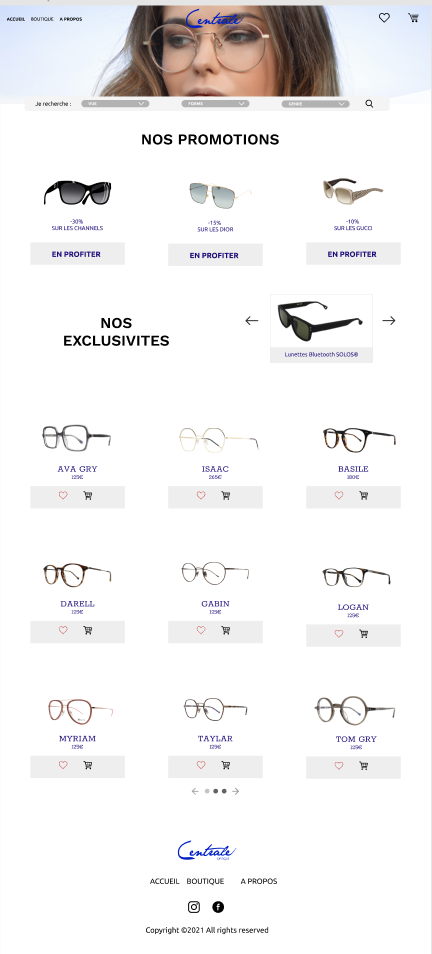
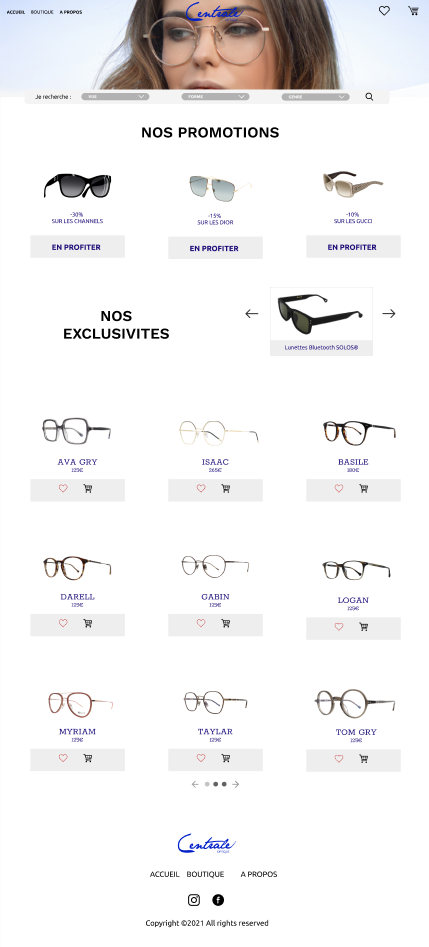
petits détails du sites et ajout de la page laFleur

diff --git a/index.html b/index.html
@@ -211,7 +211,15 @@
                     </div>
                 </div>
             </div>
-            <div class="laFleur"></div>
+            <div class="laFleur">
+                <div class="lafleurimg">
+                    <img src="img/Projets/laFleur/lafleur1.png" alt="">
+                    <img src="img/Projets/laFleur/lafleur2.png" alt="">
+                    <img src="img/Projets/laFleur/lafleur3.png" alt="">
+                    <img src="img/Projets/laFleur/lafleur4.png" alt="">
+                    <img src="img/Projets/laFleur/lafleurCrud.png" alt="">
+                </div>
+            </div>
 
 
         </div>
@@ -319,6 +327,12 @@
                             <div class="timeline-content">
                                 <h3 class="date">septembre 2020 à aujourd'hui</h3>
                                 <h1>BTS SIO OPTION SLAM</h1>
+                            </div>
+                        </li>
+                        <li>
+                            <div class="timeline-content">
+                                <h3 class="date">septembre 2022 à juin 2023</h3>
+                                <h1>BACHELOR CSI</h1>
                             </div>
                         </li>
                     </ul>

diff --git a/css/frameEcranStage.css b/css/frameEcranStage.css
@@ -48,6 +48,7 @@
 }
 .volet h1{
     font-size: 2em;
+    text-align: center;
 }
 .card-stage:hover>.volet{
     top:-45vh;
@@ -125,7 +126,7 @@
 }
 .maquette-centrale{
     margin: auto;
-    width: 95vw;
+    width: 90vw;
 }
 .container-centrale{
     height: 200px;
@@ -222,14 +223,22 @@
         display: flex;
         flex-flow: wrap;
         margin: auto;
-        width: 95vw;
-        justify-content: center;
-    }y
-    .maquette-centrale p{
-        font-size: large;
+        width: 90vw;
+        justify-content: space-around;
     }
+    .maquette-centrale p{
+        font-size: 25px;
+        text-align: center;
+    }
+    .imgvpl img:nth-child(1),.imgvpl img:nth-child(2){
+        margin: 50px 10px;
+    }
+    
     .ordi img{
         width: 100%;
+    }
+    .banner-centrale h1,.banner-lilmod h1{
+        font-size: 5.5vh;
     }
 @media screen and (max-width:350px) {
     .container-centrale{
@@ -252,6 +261,9 @@
     }
 }
 @media screen and (min-width:650px) {
+    .maquette-centrale p{
+        font-size: 50px;
+    }
     .imglilmod h4{
         margin: auto 10px;
     }

diff --git a/css/frameEcranCV.css b/css/frameEcranCV.css
@@ -6,9 +6,10 @@
     overflow: hidden;
     --webkit--overflow:hidden;
     margin: 0;
-    background-color: #111;
+    background-color: #171C32;
     color: black;
 }
+
 @import url("https://fonts.googleapis.com/css2?family=Montserrat:wght@300;500&display=swap");
 
 .container {
@@ -17,7 +18,7 @@
     display: flex;
     align-items: center;
     justify-content: center;
-    background-color: #111;
+    background-color: #171C32;
     overflow-y: scroll;
     --webkit--overflow-y:scroll;
     margin: 87px 0;
@@ -33,15 +34,15 @@
   max-width: 800px;
   margin: 0 auto;
   position: relative;
- 
 }
 
 .timeline ul {
   list-style: none;
+  padding: 0;
 }
 .timeline ul li {
   padding: 20px;
-  background-color: #1e1f22;
+  background-color: #252C48;
   color: white;
   border-radius: 10px;
   margin-bottom: 20px;
@@ -72,7 +73,7 @@
   justify-content: space-around;
   margin: 30px auto;
   width: 90vw;
-  background-color: #27282b;
+  background-color: #252C48;
   border-radius: 15px;
 }
 .logiciel,.web{

diff --git a/css/frameEcranProjets.css b/css/frameEcranProjets.css
@@ -202,6 +202,9 @@
     --webkit--overflow-y:scroll;
     
 }
+.laFleur{
+    justify-content: center;
+}
 .gsbSymfony,.gsbJava{
     position: relative;
     background-color: #005377;
@@ -348,13 +351,29 @@
     background-color: #005377;
     border: none;
     cursor: pointer;
+    color: #011b27;
 }
 .buttons-interface-symfony button:hover, .buttons-interface-java button:hover{
     background-color: #0378aa;
     color: white; 
 }
 
-
+.lafleurimg{
+    width: 90vw;
+    height: auto;
+    display: flex;
+    flex-flow: wrap;
+    background-color: #005377;
+    margin:10px auto;
+    justify-content: center;
+    align-items: center;
+    
+}
+.lafleurimg img{
+    width: 30vw;
+    margin: 10px;
+    height: auto;
+}
 @media screen and (min-width:866px) {
     .url{
         width:83vw;

diff --git a/css/frameEcranProfil.css b/css/frameEcranProfil.css
@@ -67,6 +67,7 @@
     
 }
 
+
 @media screen and (min-width:640px) {
     .tableauInformation td{
         font-size: large;
